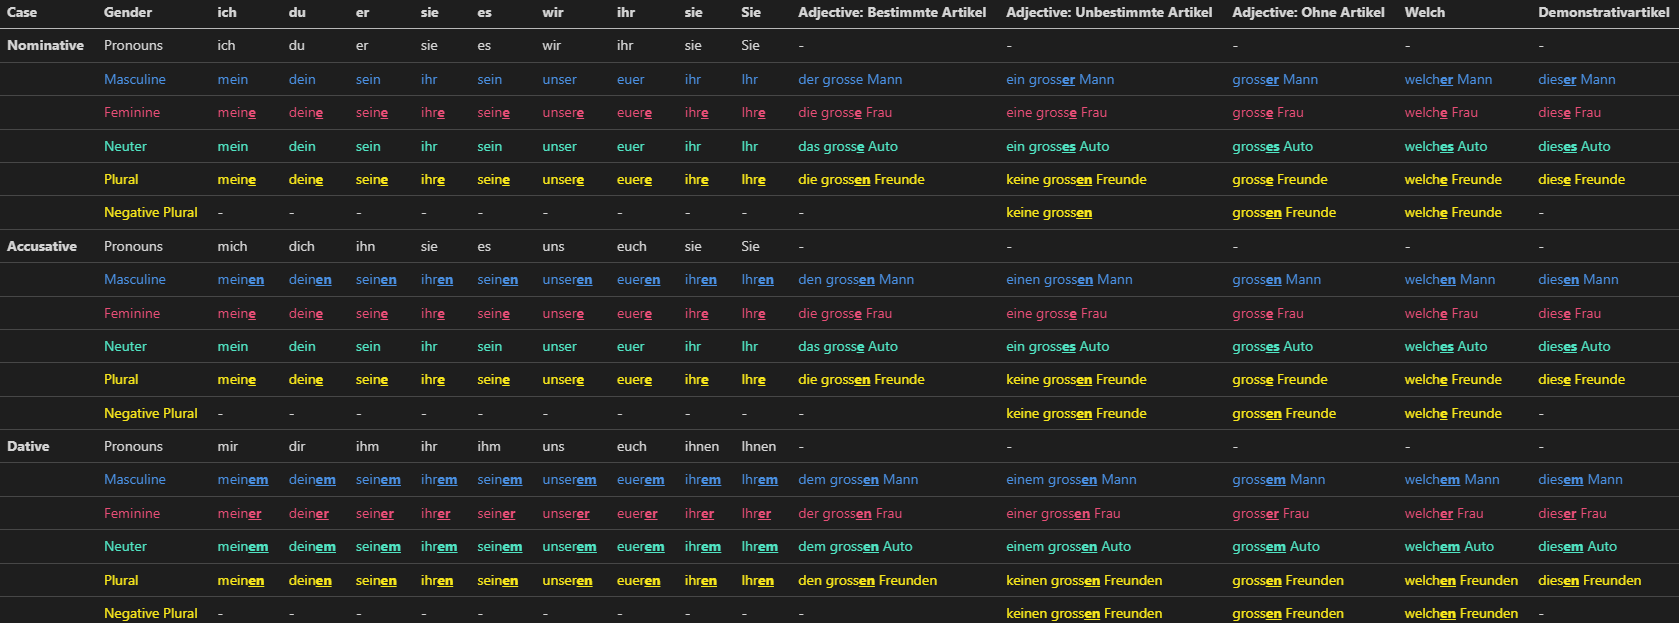
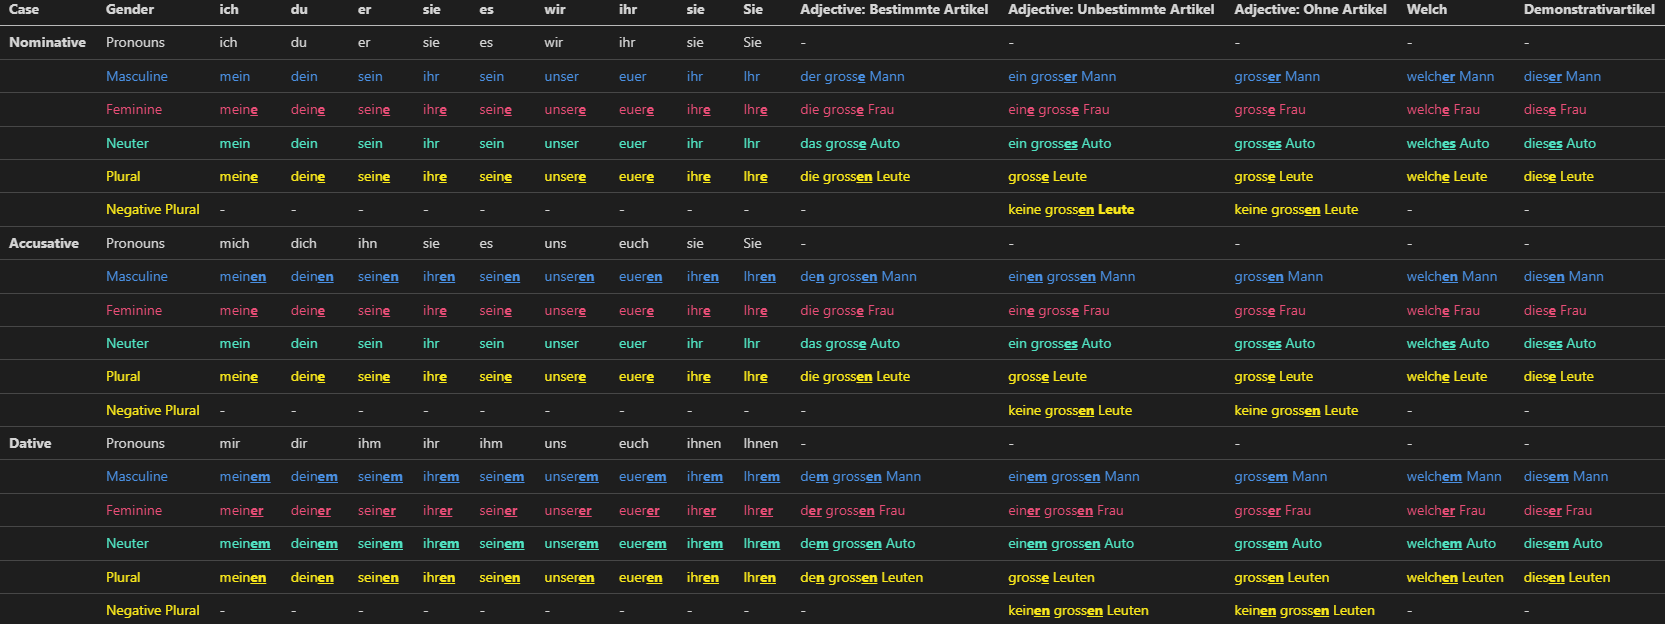
Fixed errors and formatting

diff --git a/declinations.md b/declinations.md
@@ -5,23 +5,23 @@ green { color: #50E3C2 }
 yellow { color: #F8E71C }
 </style>
 
-| **Case**       | **Gender**                       | **ich**                                | **du**                             | **er**                              | **sie**                             | **es**                              | **wir**                            | **ihr**                            | **sie**                            | **Sie**                            | **Adjective: Bestimmte Artikel**                    | **Adjective: Unbestimmte Artikel**                      | **Adjective: Ohne Artikel**                     |**Welch**                                        | **Demonstrativartikel**                        |
-|----------------|----------------------------------|----------------------------------------|------------------------------------|-------------------------------------|-------------------------------------|-------------------------------------|------------------------------------|------------------------------------|------------------------------------|------------------------------------|-----------------------------------------------------|---------------------------------------------------------|-------------------------------------------------|-------------------------------------------------|------------------------------------------------|
-| **Nominative** | Pronouns                         | ich                                    | du                                 | er                                  | sie                                 | es                                  | wir                                | ihr                                | sie                                | Sie                                | -                                                   | -                                                       | -                                               | -                                               | -                                              |
-|                | <blue>Masculine</blue>           | <blue>mein</blue>                      | <blue>dein</blue>                  | <blue>sein</blue>                   | <blue>ihr</blue>                    | <blue>sein</blue>                   | <blue>unser</blue>                 | <blue>euer</blue>                  | <blue>ihr</blue>                   | <blue>Ihr</blue>                   | <blue>der grosse Mann</blue>                        | <blue>ein gross<u><b>er</u></b> Mann</blue>             | <blue>gross<u><b>er</u></b> Mann</blue>         | <blue>welch<u><b>er</b></u> Mann</blue>         | <blue>dies<u><b>er</b></u> Mann</blue>         |
-|                | <red>Feminine</red>              | <red>mein<u><b>e</u></b></red>         | <red>dein<u><b>e</u></b></red>     | <red>sein<u><b>e</u></b></red>      | <red>ihr<u><b>e</u></b></red>       | <red>sein<u><b>e</u></b></red>      | <red>unser<u><b>e</u></b></red>    | <red>euer<u><b>e</u></b></red>     | <red>ihr<u><b>e</u></b></red>      | <red>Ihr<u><b>e</u></b></red>      | <red>die gross<u><b>e</u></b> Frau</red>            | <red>eine gross<u><b>e</u></b> Frau</red>               | <red>gross<u><b>e</u></b> Frau</red>            | <red>welch<u><b>e</b></u> Frau</red>            | <red>dies<u><b>e</b></u> Frau</red>            |
-|                | <green>Neuter</green>            | <green>mein</green>                    | <green>dein</green>                | <green>sein</green>                 | <green>ihr</green>                  | <green>sein</green>                 | <green>unser</green>               | <green>euer</green>                | <green>ihr</green>                 | <green>Ihr</green>                 | <green>das gross<u><b>e</u></b> Auto</green>        | <green>ein gross<u><b>es</u></b> Auto</green>           | <green>gross<u><b>es</u></b> Auto</green>       | <green>welch<u><b>es</b></u> Auto</green>       | <green>dies<u><b>es</b></u> Auto</green>       |
-|                | <yellow>Plural</yellow>          | <yellow>mein<u><b>e</u></b></yellow>   | <yellow>dein<u><b>e</u></yellow>   | <yellow>sein<u><b>e</u></yellow>    | <yellow>ihr<u><b>e</u></yellow>     | <yellow>sein<u><b>e</u></yellow>    | <yellow>unser<u><b>e</u></yellow>  | <yellow>euer<u><b>e</u></yellow>   | <yellow>ihr<u><b>e</u></yellow>    | <yellow>Ihr<u><b>e</u></yellow>    | <yellow>die gross<u><b>en</b></u> Freunde</yellow>  | <yellow>keine gross<u><b>en</b></u> Freunde</yellow>    | <yellow>gross<u><b>e</b></u> Freunde</yellow>   | <yellow>welch<u><b>e</b></u> Freunde</yellow>   | <yellow>dies<u><b>e</b></u> Freunde</yellow>   |
-|                | <yellow>Negative Plural</yellow> | -                                      | -                                  | -                                   | -                                   | -                                   | -                                  | -                                  | -                                  | -                                  | -                                                   | <yellow>keine gross<u><b>en</u> </yellow>               | <yellow>gross<u><b>en</b></u> Freunde</yellow>  | <yellow>welch<u><b>e</b></u> Freunde</yellow>   | -                                              |
-| **Accusative** | Pronouns                         | mich                                   | dich                               | ihn                                 | sie                                 | es                                  | uns                                | euch                               | sie                                | Sie                                | -                                                   | -                                                       | -                                               | -                                               | -                                              |
-|                | <blue>Masculine</blue>           | <blue>mein<u><b>en</u></blue>          | <blue>dein<u><b>en</u></blue>      | <blue>sein<u><b>en</u></blue>       | <blue>ihr<u><b>en</u></blue>        | <blue>sein<u><b>en</u></blue>       | <blue>unser<u><b>en</u></blue>     | <blue>euer<u><b>en</u></blue>      | <blue>ihr<u><b>en</u></blue>       | <blue>Ihr<u><b>en</u></blue>       | <blue>den gross<u><b>en</b></u> Mann</blue>         | <blue>einen gross<u><b>en</b></u> Mann</blue>           | <blue>gross<u><b>en</b></u> Mann</blue>         | <blue>welch<u><b>en</b></u> Mann</blue>         | <blue>dies<u><b>en</b></u> Mann</blue>         |
-|                | <red>Feminine</red>              | <red>mein<u><b>e</u></red>             | <red>dein<u><b>e</u></red>         | <red>sein<u><b>e</u></red>          | <red>ihr<u><b>e</u></red>           | <red>sein<u><b>e</u></red>          | <red>unser<u><b>e</u></red>        | <red>euer<u><b>e</u></red>         | <red>ihr<u><b>e</u></red>          | <red>Ihr<u><b>e</u></red>          | <red>die gross<u><b>e</b></u> Frau</red>            | <red>eine gross<u><b>e</b></u> Frau</red>               | <red>gross<u><b>e</b></u> Frau</red>            | <red>welch<u><b>e</b></u> Frau</red>            | <red>dies<u><b>e</b></u> Frau</red>            |
-|                | <green>Neuter</green>            | <green>mein</green>                    | <green>dein</green>                | <green>sein</green>                 | <green>ihr</green>                  | <green>sein</green>                 | <green>unser</green>               | <green>euer</green>                | <green>ihr</green>                 | <green>Ihr</green>                 | <green>das gross<u><b>e</b></u> Auto</green>        | <green>ein gross<u><b>es</b></u> Auto</green>           | <green>gross<u><b>es</b></u> Auto</green>       | <green>welch<u><b>es</b></u> Auto</green>       | <green>dies<u><b>es</b></u> Auto</green>       |
-|                | <yellow>Plural</yellow>          | <yellow>mein<u><b>e</u></yellow>       | <yellow>dein<u><b>e</u></yellow>   | <yellow>sein<u><b>e</u></yellow>    | <yellow>ihr<u><b>e</u></yellow>     | <yellow>sein<u><b>e</u></yellow>    | <yellow>unser<u><b>e</u></yellow>  | <yellow>euer<u><b>e</u></yellow>   | <yellow>ihr<u><b>e</u></yellow>    | <yellow>Ihr<u><b>e</u></yellow>    | <yellow>die gross<u><b>en</b></u> Freunde</yellow>  | <yellow>keine gross<u><b>en</b></u> Freunde</yellow>    | <yellow>gross<u><b>e</b></u> Freunde</yellow>   | <yellow>welch<u><b>e</b></u> Freunde</yellow>   | <yellow>dies<u><b>e</b></u> Freunde</yellow>   |
-|                | <yellow>Negative Plural</yellow> | -                                      | -                                  | -                                   | -                                   | -                                   | -                                  | -                                  | -                                  | -                                  | -                                                   | <yellow>keine gross<u><b>en</b></u> Freunde</yellow>    | <yellow>gross<u><b>en</b></u> Freunde</yellow>  | <yellow>welch<u><b>e</b></u> Freunde</yellow>   | -                                              |
-| **Dative**     | Pronouns                         | mir                                    | dir                                | ihm                                 | ihr                                 | ihm                                 | uns                                | euch                               | ihnen                              | Ihnen                              | -                                                   | -                                                       | -                                               | -                                               | -                                              |
-|                | <blue>Masculine</blue>           | <blue>mein<u><b>em</u></blue>          | <blue>dein<u><b>em</u></blue>      | <blue>sein<u><b>em</u></blue>       | <blue>ihr<u><b>em</u></blue>        | <blue>sein<u><b>em</u></blue>       | <blue>unser<u><b>em</u></blue>     | <blue>euer<u><b>em</u></blue>      | <blue>ihr<u><b>em</u></blue>       | <blue>Ihr<u><b>em</u></blue>       | <blue>dem gross<u><b>en</b></u> Mann</blue>         | <blue>einem gross<u><b>en</b></u> Mann</blue>           | <blue>gross<u><b>em</b></u> Mann</blue>         | <blue>welch<u><b>em</b></u> Mann</blue>         | <blue>dies<u><b>em</b></u> Mann</blue>         |
-|                | <red>Feminine</red>              | <red>mein<u><b>er</u></red>            | <red>dein<u><b>er</u></red>        | <red>sein<u><b>er</u></red>         | <red>ihr<u><b>er</u></red>          | <red>sein<u><b>er</u></red>         | <red>unser<u><b>er</u></red>       | <red>euer<u><b>er</u></red>        | <red>ihr<u><b>er</u></red>         | <red>Ihr<u><b>er</u></red>         | <red>der gross<u><b>en</b></u> Frau</red>           | <red>einer gross<u><b>en</b></u> Frau</red>             | <red>gross<u><b>er</b></u> Frau</red>           | <red>welch<u><b>er</b></u> Frau</red>           | <red>dies<u><b>er</b></u> Frau</red>           |
-|                | <green>Neuter</green>            | <green>mein<u><b>em</u></green>        | <green>dein<u><b>em</u></green>    | <green>sein<u><b>em</u></green>     | <green>ihr<u><b>em</u></green>      | <green>sein<u><b>em</u></green>     | <green>unser<u><b>em</u></green>   | <green>euer<u><b>em</u></green>    | <green>ihr<u><b>em</u></green>     | <green>Ihr<u><b>em</u></green>     | <green>dem gross<u><b>en</b></u> Auto</green>       | <green>einem gross<u><b>en</b></u> Auto</green>         | <green>gross<u><b>em</b></u> Auto</green>       | <green>welch<u><b>em</b></u> Auto</green>       | <green>dies<u><b>em</b></u> Auto</green>       |
-|                | <yellow>Plural</yellow>          | <yellow>mein<u><b>en</u></yellow>      | <yellow>dein<u><b>en</u></yellow>  | <yellow>sein<u><b>en</u></yellow>   | <yellow>ihr<u><b>en</u></yellow>    | <yellow>sein<u><b>en</u></yellow>   | <yellow>unser<u><b>en</yellow>     | <yellow>euer<u><b>en</yellow>      | <yellow>ihr<u><b>en</yellow>       | <yellow>Ihr<u><b>en</yellow>       | <yellow>den gross<u><b>en</b></u> Freunden</yellow> | <yellow>keinen gross<u><b>en</b></u> Freunden</yellow>  | <yellow>gross<u><b>en</b></u> Freunden</yellow> | <yellow>welch<u><b>en</b></u> Freunden</yellow> | <yellow>dies<u><b>en</b></u> Freunden</yellow> |
-|                | <yellow>Negative Plural</yellow> | -                                      | -                                  | -                                   | -                                   | -                                   | -                                  | -                                  | -                                  | -                                  | -                                                   | <yellow>keinen gross<u><b>en</b></u> Freunden</yellow>  | <yellow>gross<u><b>en</u></b> Freunden</yellow> | <yellow>welch<u><b>en</b></u> Freunden</yellow> | -                                              |
+| **Case**       | **Gender**                       | **ich**                                | **du**                             | **er**                              | **sie**                             | **es**                              | **wir**                            | **ihr**                            | **sie**                            | **Sie**                            | **Adjective: Bestimmte Artikel**                                | **Adjective: Unbestimmte Artikel**                                 | **Adjective: Ohne Artikel**                                        |**Welch**                                        | **Demonstrativartikel**                        |
+|----------------|----------------------------------|----------------------------------------|------------------------------------|-------------------------------------|-------------------------------------|-------------------------------------|------------------------------------|------------------------------------|------------------------------------|------------------------------------|-----------------------------------------------------------------|--------------------------------------------------------------------|--------------------------------------------------------------------|-------------------------------------------------|------------------------------------------------|
+| **Nominative** | Pronouns                         | ich                                    | du                                 | er                                  | sie                                 | es                                  | wir                                | ihr                                | sie                                | Sie                                | -                                                               | -                                                                  | -                                                                  | -                                               | -                                              |
+|                | <blue>Masculine</blue>           | <blue>mein</blue>                      | <blue>dein</blue>                  | <blue>sein</blue>                   | <blue>ihr</blue>                    | <blue>sein</blue>                   | <blue>unser</blue>                 | <blue>euer</blue>                  | <blue>ihr</blue>                   | <blue>Ihr</blue>                   | <blue>der gross<u><b>e</u></b> Mann</blue>                      | <blue>ein gross<u><b>er</u></b> Mann</blue>                        | <blue>gross<u><b>er</u></b> Mann</blue>                            | <blue>welch<u><b>er</b></u> Mann</blue>         | <blue>dies<u><b>er</b></u> Mann</blue>         |
+|                | <red>Feminine</red>              | <red>mein<u><b>e</u></b></red>         | <red>dein<u><b>e</u></b></red>     | <red>sein<u><b>e</u></b></red>      | <red>ihr<u><b>e</u></b></red>       | <red>sein<u><b>e</u></b></red>      | <red>unser<u><b>e</u></b></red>    | <red>euer<u><b>e</u></b></red>     | <red>ihr<u><b>e</u></b></red>      | <red>Ihr<u><b>e</u></b></red>      | <red>die gross<u><b>e</u></b> Frau</red>                        | <red>ein<u><b>e</u></b> gross<u><b>e</u></b> Frau</red>            | <red>gross<u><b>e</u></b> Frau</red>                               | <red>welch<u><b>e</b></u> Frau</red>            | <red>dies<u><b>e</b></u> Frau</red>            |
+|                | <green>Neuter</green>            | <green>mein</green>                    | <green>dein</green>                | <green>sein</green>                 | <green>ihr</green>                  | <green>sein</green>                 | <green>unser</green>               | <green>euer</green>                | <green>ihr</green>                 | <green>Ihr</green>                 | <green>das gross<u><b>e</u></b> Auto</green>                    | <green>ein gross<u><b>es</u></b> Auto</green>                      | <green>gross<u><b>es</u></b> Auto</green>                          | <green>welch<u><b>es</b></u> Auto</green>       | <green>dies<u><b>es</b></u> Auto</green>       |
+|                | <yellow>Plural</yellow>          | <yellow>mein<u><b>e</u></b></yellow>   | <yellow>dein<u><b>e</u></yellow>   | <yellow>sein<u><b>e</u></yellow>    | <yellow>ihr<u><b>e</u></yellow>     | <yellow>sein<u><b>e</u></yellow>    | <yellow>unser<u><b>e</u></yellow>  | <yellow>euer<u><b>e</u></yellow>   | <yellow>ihr<u><b>e</u></yellow>    | <yellow>Ihr<u><b>e</u></yellow>    | <yellow>die gross<u><b>en</b></u> Leute</yellow>                | <yellow>gross<u><b>e</b></u> Leute</yellow>                        | <yellow>gross<u><b>e</b></u> Leute</yellow>                        | <yellow>welch<u><b>e</b></u> Leute</yellow>     | <yellow>dies<u><b>e</b></u> Leute</yellow>     |
+|                | <yellow>Negative Plural</yellow> | -                                      | -                                  | -                                   | -                                   | -                                   | -                                  | -                                  | -                                  | -                                  | -                                                               | <yellow>keine gross<u><b>en</u> Leute</yellow>                     | <yellow>keine gross<u><b>en</b></u> Leute</yellow>                 | -                                               | -                                              |
+| **Accusative** | Pronouns                         | mich                                   | dich                               | ihn                                 | sie                                 | es                                  | uns                                | euch                               | sie                                | Sie                                | -                                                               | -                                                                  | -                                                                  | -                                               | -                                              |
+|                | <blue>Masculine</blue>           | <blue>mein<u><b>en</u></blue>          | <blue>dein<u><b>en</u></blue>      | <blue>sein<u><b>en</u></blue>       | <blue>ihr<u><b>en</u></blue>        | <blue>sein<u><b>en</u></blue>       | <blue>unser<u><b>en</u></blue>     | <blue>euer<u><b>en</u></blue>      | <blue>ihr<u><b>en</u></blue>       | <blue>Ihr<u><b>en</u></blue>       | <blue>de<u><b>n</u></b> gross<u><b>en</b></u> Mann</blue>       | <blue>ein<u><b>en</u></b> gross<u><b>en</b></u> Mann</blue>        | <blue>gross<u><b>en</b></u> Mann</blue>                            | <blue>welch<u><b>en</b></u> Mann</blue>         | <blue>dies<u><b>en</b></u> Mann</blue>         |
+|                | <red>Feminine</red>              | <red>mein<u><b>e</u></red>             | <red>dein<u><b>e</u></red>         | <red>sein<u><b>e</u></red>          | <red>ihr<u><b>e</u></red>           | <red>sein<u><b>e</u></red>          | <red>unser<u><b>e</u></red>        | <red>euer<u><b>e</u></red>         | <red>ihr<u><b>e</u></red>          | <red>Ihr<u><b>e</u></red>          | <red>die gross<u><b>e</b></u> Frau</red>                        | <red>ein<u><b>e</u></b> gross<u><b>e</b></u> Frau</red>            | <red>gross<u><b>e</b></u> Frau</red>                               | <red>welch<u><b>e</b></u> Frau</red>            | <red>dies<u><b>e</b></u> Frau</red>            |
+|                | <green>Neuter</green>            | <green>mein</green>                    | <green>dein</green>                | <green>sein</green>                 | <green>ihr</green>                  | <green>sein</green>                 | <green>unser</green>               | <green>euer</green>                | <green>ihr</green>                 | <green>Ihr</green>                 | <green>das gross<u><b>e</b></u> Auto</green>                    | <green>ein gross<u><b>es</b></u> Auto</green>                      | <green>gross<u><b>es</b></u> Auto</green>                          | <green>welch<u><b>es</b></u> Auto</green>       | <green>dies<u><b>es</b></u> Auto</green>       |
+|                | <yellow>Plural</yellow>          | <yellow>mein<u><b>e</u></yellow>       | <yellow>dein<u><b>e</u></yellow>   | <yellow>sein<u><b>e</u></yellow>    | <yellow>ihr<u><b>e</u></yellow>     | <yellow>sein<u><b>e</u></yellow>    | <yellow>unser<u><b>e</u></yellow>  | <yellow>euer<u><b>e</u></yellow>   | <yellow>ihr<u><b>e</u></yellow>    | <yellow>Ihr<u><b>e</u></yellow>    | <yellow>die gross<u><b>en</b></u> Leute</yellow>                | <yellow>gross<u><b>e</b></u> Leute</yellow>                        | <yellow>gross<u><b>e</b></u> Leute</yellow>                        | <yellow>welch<u><b>e</b></u> Leute</yellow>     | <yellow>dies<u><b>e</b></u> Leute</yellow>     |
+|                | <yellow>Negative Plural</yellow> | -                                      | -                                  | -                                   | -                                   | -                                   | -                                  | -                                  | -                                  | -                                  | -                                                               | <yellow>keine gross<u><b>en</b></u> Leute</yellow>                 | <yellow>keine gross<u><b>en</b></u> Leute</yellow>                 | -                                               | -                                              |
+| **Dative**     | Pronouns                         | mir                                    | dir                                | ihm                                 | ihr                                 | ihm                                 | uns                                | euch                               | ihnen                              | Ihnen                              | -                                                               | -                                                                  | -                                                                  | -                                               | -                                              |
+|                | <blue>Masculine</blue>           | <blue>mein<u><b>em</u></blue>          | <blue>dein<u><b>em</u></blue>      | <blue>sein<u><b>em</u></blue>       | <blue>ihr<u><b>em</u></blue>        | <blue>sein<u><b>em</u></blue>       | <blue>unser<u><b>em</u></blue>     | <blue>euer<u><b>em</u></blue>      | <blue>ihr<u><b>em</u></blue>       | <blue>Ihr<u><b>em</u></blue>       | <blue>de<u><b>m</u></b> gross<u><b>en</b></u> Mann</blue>       | <blue>ein<u><b>em</u></b> gross<u><b>en</b></u> Mann</blue>        | <blue>gross<u><b>em</b></u> Mann</blue>                            | <blue>welch<u><b>em</b></u> Mann</blue>         | <blue>dies<u><b>em</b></u> Mann</blue>         |
+|                | <red>Feminine</red>              | <red>mein<u><b>er</u></red>            | <red>dein<u><b>er</u></red>        | <red>sein<u><b>er</u></red>         | <red>ihr<u><b>er</u></red>          | <red>sein<u><b>er</u></red>         | <red>unser<u><b>er</u></red>       | <red>euer<u><b>er</u></red>        | <red>ihr<u><b>er</u></red>         | <red>Ihr<u><b>er</u></red>         | <red>d<u><b>er</u></b> gross<u><b>en</b></u> Frau</red>         | <red>ein<u><b>er</u></b> gross<u><b>en</b></u> Frau</red>          | <red>gross<u><b>er</b></u> Frau</red>                              | <red>welch<u><b>er</b></u> Frau</red>           | <red>dies<u><b>er</b></u> Frau</red>           |
+|                | <green>Neuter</green>            | <green>mein<u><b>em</u></green>        | <green>dein<u><b>em</u></green>    | <green>sein<u><b>em</u></green>     | <green>ihr<u><b>em</u></green>      | <green>sein<u><b>em</u></green>     | <green>unser<u><b>em</u></green>   | <green>euer<u><b>em</u></green>    | <green>ihr<u><b>em</u></green>     | <green>Ihr<u><b>em</u></green>     | <green>de<u><b>m</u></b> gross<u><b>en</b></u> Auto</green>     | <green>ein<u><b>em</u></b> gross<u><b>en</b></u> Auto</green>      | <green>gross<u><b>em</b></u> Auto</green>                          | <green>welch<u><b>em</b></u> Auto</green>       | <green>dies<u><b>em</b></u> Auto</green>       |
+|                | <yellow>Plural</yellow>          | <yellow>mein<u><b>en</u></yellow>      | <yellow>dein<u><b>en</u></yellow>  | <yellow>sein<u><b>en</u></yellow>   | <yellow>ihr<u><b>en</u></yellow>    | <yellow>sein<u><b>en</u></yellow>   | <yellow>unser<u><b>en</yellow>     | <yellow>euer<u><b>en</yellow>      | <yellow>ihr<u><b>en</yellow>       | <yellow>Ihr<u><b>en</yellow>       | <yellow>de<u><b>n</u></b> gross<u><b>en</b></u> Leuten</yellow> | <yellow>gross<u><b>e</b></u> Leuten</yellow>                       | <yellow>gross<u><b>en</b></u> Leuten</yellow>                      | <yellow>welch<u><b>en</b></u> Leuten</yellow>   | <yellow>dies<u><b>en</b></u> Leuten</yellow>   |
+|                | <yellow>Negative Plural</yellow> | -                                      | -                                  | -                                   | -                                   | -                                   | -                                  | -                                  | -                                  | -                                  | -                                                               | <yellow>kein<u><b>en</b></u> gross<u><b>en</b></u> Leuten</yellow> | <yellow>kein<u><b>en</b></u> gross<u><b>en</b></u> Leuten</yellow> | -                                               | -                                              |
